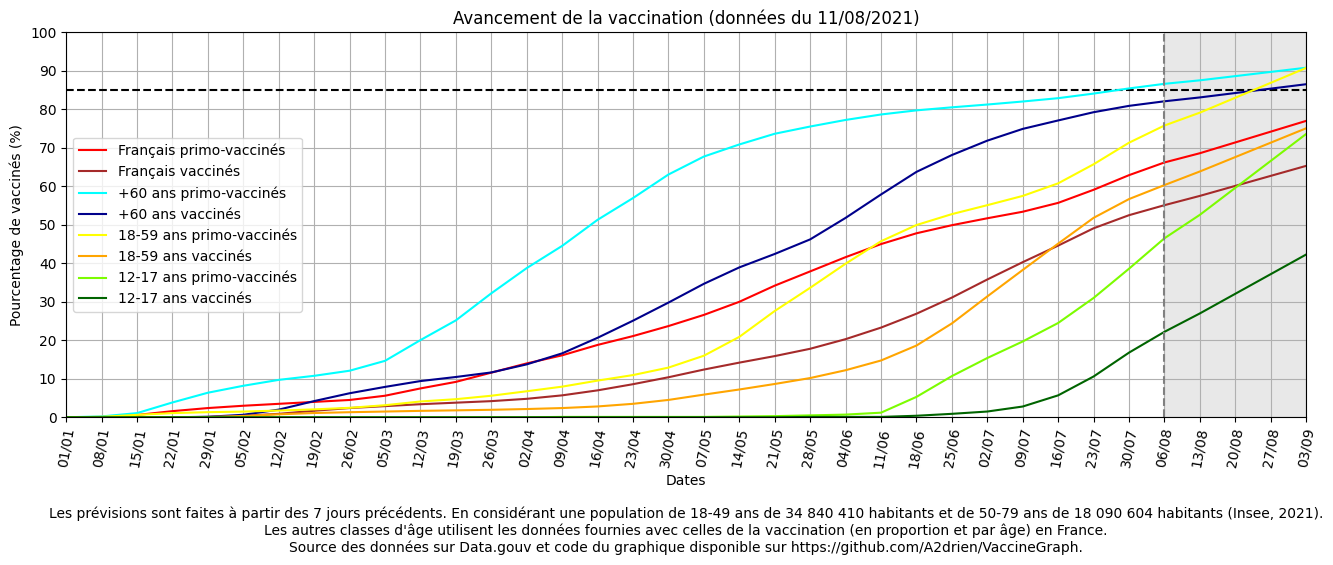
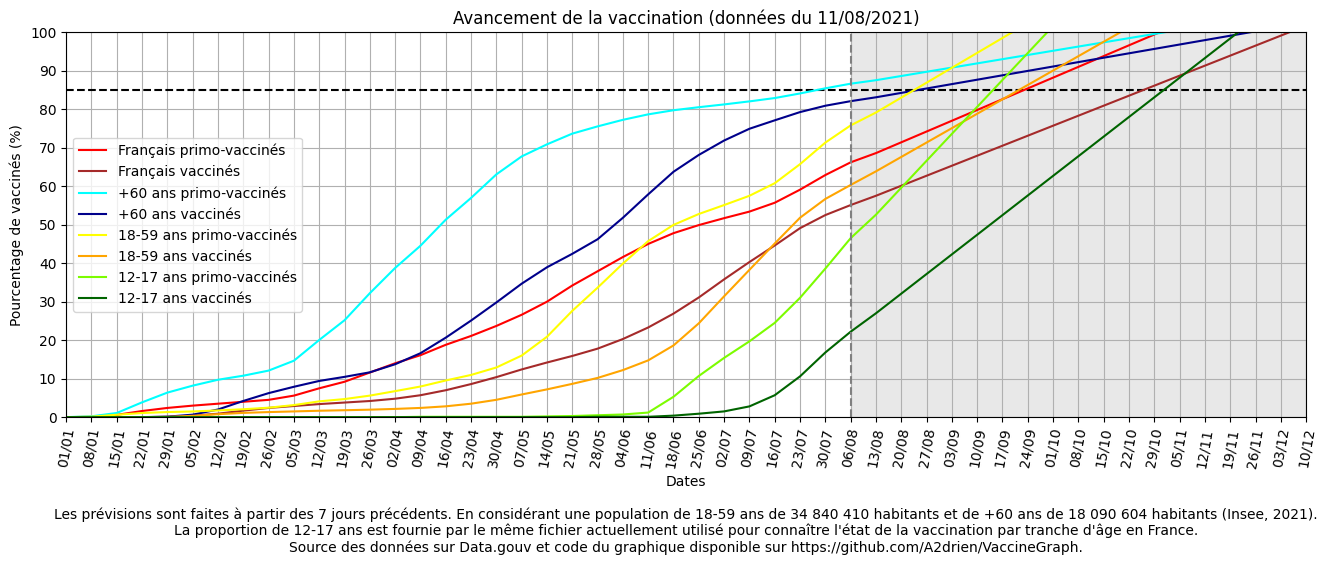
Update notes

diff --git a/scriptVaccination.py b/scriptVaccination.py
@@ -160,7 +160,7 @@ coeff = (proportion_vaccines[-1]-proportion_vaccines[-1-nb_jour_prediction])/nb_
 i = 0
 limite_atteinte = False
 #!!! Pas 100% sûr de la formule (remplacer int par un arrondi à l'unité supérieure ?)
-while (limite_date_fin == 0 and (i <= int((100-proportion_vaccines[-1])/coeff) or (len(liste_dates)-1)%limite_ecart_jour != 0)) or (limite_atteinte == False or (len(liste_dates)-1)%limite_ecart_jour != 0):
+while (limite_date_fin == 0 and (i <= int((100-proportion_vaccines[-1])/coeff) or (len(liste_dates)-1)%limite_ecart_jour != 0)) and (limite_atteinte == False or (len(liste_dates)-1)%limite_ecart_jour != 0):
     date = date[0:8] + str(int(date[8:])+1)
     if len(date[8:]) == 1: date = date[0:8] + "0" + date[-1] 
     if date[5:7] == "01" and date[8:10] == "32": date = date[0:5] + "02-01"
@@ -217,8 +217,8 @@ plt.margins(0, 0)                                                               
 
 #Défini les titres du graphe et des axes x et y, et ajoute des notes en bas du graphe
 plt.title(f"Avancement de la vaccination (données du {nom_fichier[20:22]}/{nom_fichier[17:19]}/{nom_fichier[12:16]})")
-plt.xlabel(f"""Dates\n\nLes prévisions sont faites à partir des {formatNombre(nb_jour_prediction)} jours précédents. En considérant une population de 18-49 ans de {formatNombre(pop_18_59_ans)} habitants et de 50-79 ans de {formatNombre(pop_60_ans)} habitants (Insee, 2021).
-Les autres classes d'âge utilisent les données fournies avec celles de la vaccination (en proportion et par âge) en France.
+plt.xlabel(f"""Dates\n\nLes prévisions sont faites à partir des {formatNombre(nb_jour_prediction)} jours précédents. En considérant une population de 18-59 ans de {formatNombre(pop_18_59_ans)} habitants et de +60 ans de {formatNombre(pop_60_ans)} habitants (Insee, 2021).
+La proportion de 12-17 ans est fournie par le même fichier actuellement utilisé pour connaître l'état de la vaccination par tranche d'âge en France.
 Source des données sur Data.gouv et code du graphique disponible sur https://github.com/A2drien/VaccineGraph.""")
 plt.ylabel("Pourcentage de vaccinés (%)")
 
